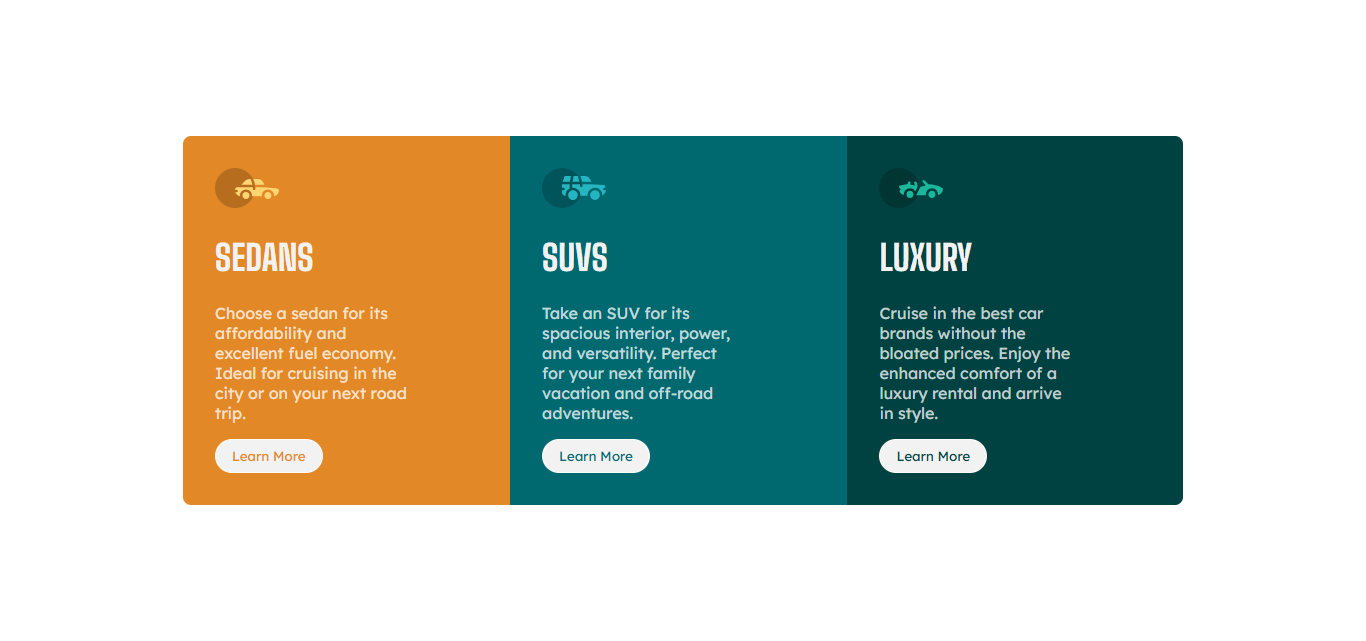
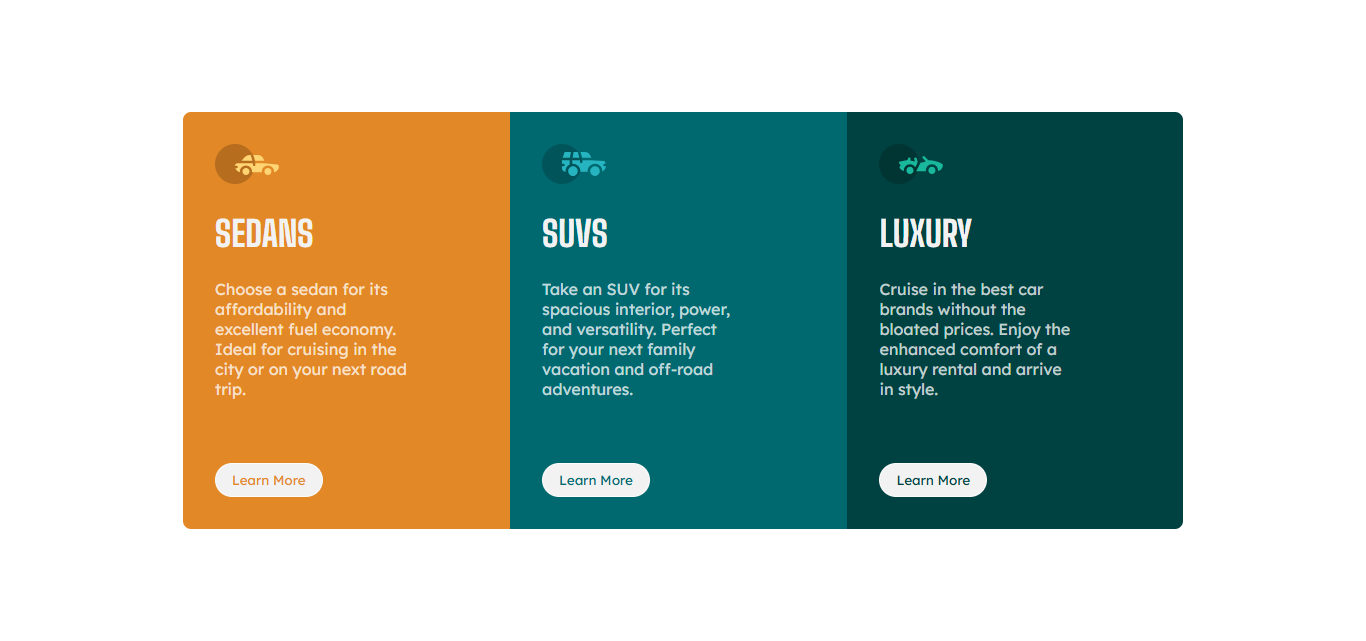
Update button margin-top from desktop version

diff --git a/012-3-column-preview-card-component-main/styles/media-queries.css b/012-3-column-preview-card-component-main/styles/media-queries.css
@@ -6,3 +6,7 @@ p {
     max-width: 1000px;
     display: flex;
 }
+
+.card > article > button {
+    margin-top: 4rem    ;
+}
